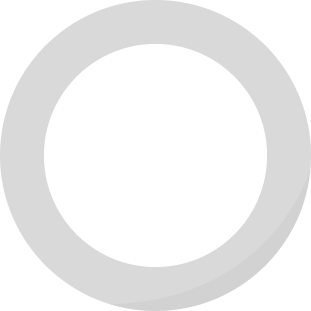
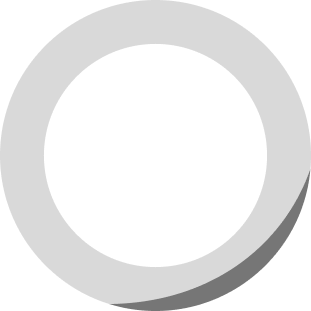
more contrast

Changed region(s): [[0.3473, 0.5498, 1.0, 1.0]]

diff --git a/client/static/scripts/data_collection/GamePiece.js b/client/static/scripts/data_collection/GamePiece.js
@@ -18,7 +18,7 @@ export default class GamePiece extends DrawableObject {
         this.mask.height = this.size
 
         this.maskCtx = this.mask.getContext("2d")
-        this.opacity = 0.1
+        this.opacity = 0.2
 
         this.ge_key = ge_key
     }
